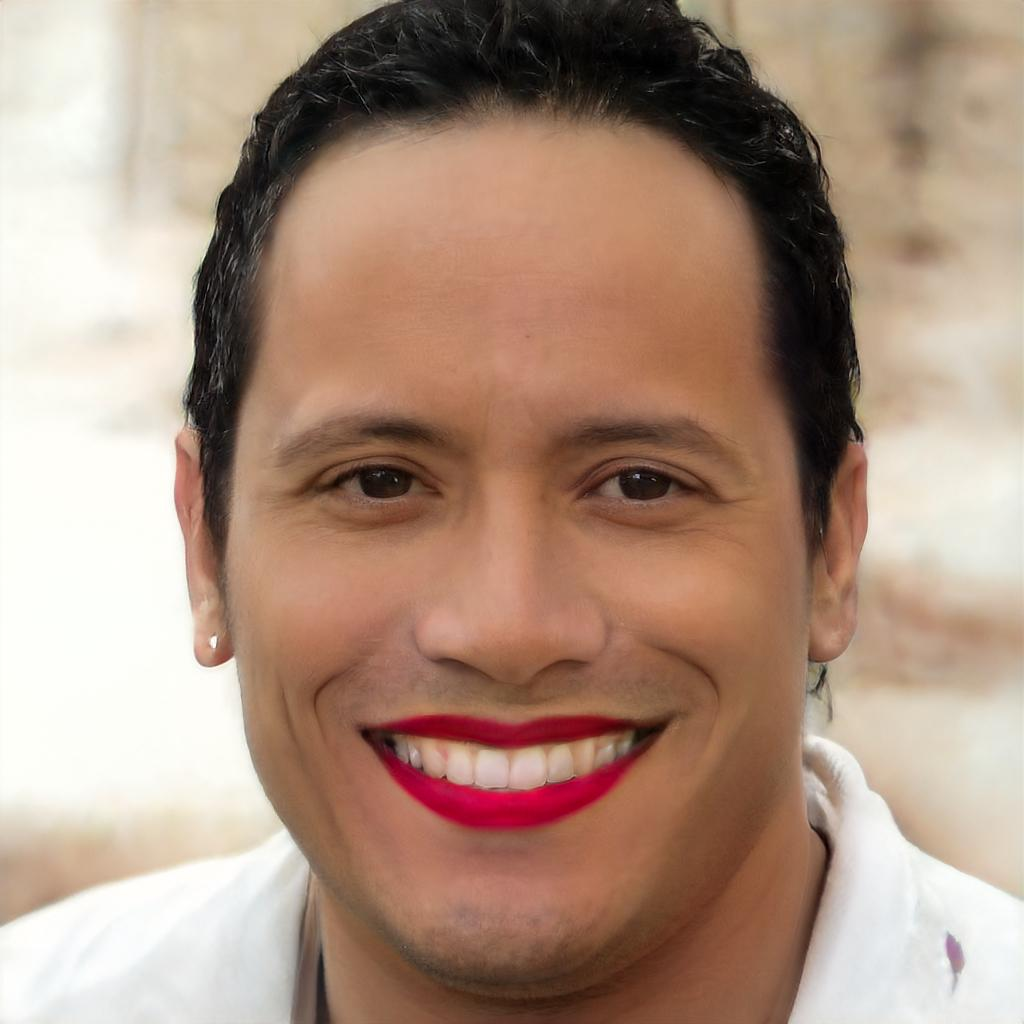
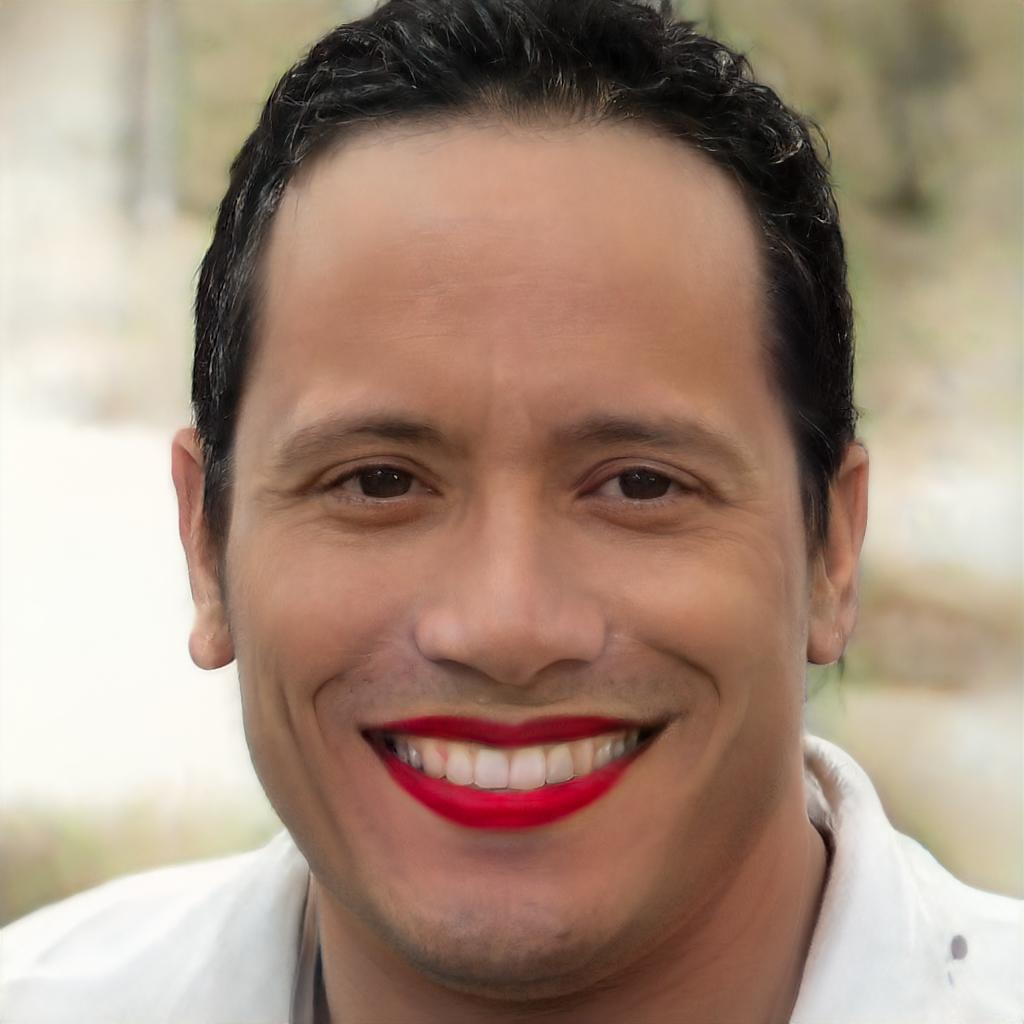
update clip and l2 only

diff --git a/adversarial_optimization.py b/adversarial_optimization.py
@@ -69,6 +69,7 @@ class Adversarial_Opt:
         self.num_aug = args.num_aug
         self.nce_loss = nce_loss.NCELoss('cuda', clip_model="ViT-B/32")
         self.source_text = args.source_text
+        # this is the makeup prompt.
         self.description = args.makeup_prompt
         self.face_models = FaceRecognitionModels()
         self.fr_model_m = self.face_models.load_mobile_face_net()
@@ -201,14 +202,14 @@ class Adversarial_Opt:
     
     def run(self):
         
-        target_embbeding_m, target_embbeding_facenet, target_embbeding_152, target_embbeding_50,target_eval = self.get_target_embeddings()
+        target_embbeding_m, target_embbeding_facenet, target_embbeding_152, target_embbeding_50,target_eval = self.get_target_embeddings() # target_embbeding_m.shape = [1,512],  target_embbeding_facenet.shape = [1,512], target_embbeding_152.shape = [1,512], target_embbeding_50.shape = [1,512], target_eval.shape = torch.Size([1, 3, 671, 525]). The target is the original image of the target identity, for example 085807.jpg. We need this 
         
         for ff, (latent, path) in enumerate(zip(self.latents, self.path)):
-            
+            # path = 'auto_input_images/man.jpg'; latent = torch.Size([1, 18, 512])
             with torch.no_grad():
-                g_ema = torch.load(self.generators[ff]).eval() #loading fine-tuned generator
+                g_ema = torch.load(self.generators[ff]).eval() #loading fine-tuned generator, this is a nn.Module object
    
-            _,latent_cl, noisss = self.process_latent(latent, self.noi[ff]) #processing latent and noise
+            _,latent_cl, noisss = self.process_latent(latent, self.noi[ff]) #processing latent and noise. latent_cl.shape = torch.Size([1, 18, 512]), noisss is a list, 
             img_org_ = self.get_image_gen(latent, noisss,g_ema) #augmenting image
             
             
@@ -223,18 +224,22 @@ class Adversarial_Opt:
                 img_gen_, _ = g_ema([latent], input_is_latent=True, noise=noisss)
                 img_gen_ = ((img_gen_+1)/2).clamp(0,1)
 
-                img_gen_aug = torch.cat([self.augment(img_gen_) for i in range(self.num_aug)], dim=0)                     
+                img_gen_aug = torch.cat([self.augment(img_gen_) for i in range(self.num_aug)], dim=0) 
+                # this is the align loss to makeup prompt.                    
                 c_loss = self.nce_loss(img_org_, self.source_text,img_gen_aug, self.description).sum()
 
-                l2_loss = ((latent_cl - latent) ** 2).sum()
+                l2_loss = ((latent_cl - latent) ** 2).sum() # this is to make sure that the latent is not too far from the original latent.
  
                 #cropping
                 img_gen = img_gen_[:,:,round(bb_src1[1])-self.margin:round(bb_src1[3])+self.margin,round(bb_src1[0])-self.margin:round(bb_src1[2])+self.margin]
 
-                adv_loss_m_sim, adv_loss_facenet_sim, adv_loss_152_sim, adv_loss_50_sim,adv_loss_m,adv_loss_facenet,adv_loss_152,adv_loss_50 = self.get_adv_loss(img_gen, source_embbeding_m_, source_embbeding_facenet_, source_embbeding_152_, source_embbeding_50_,target_embbeding_m, target_embbeding_facenet, target_embbeding_152, target_embbeding_50)
+                # the idea of adversarial loss is to make sure that the latent representation of the generated image is similar to the target image. For example an unseen, secret face image. However, this may change the identity of the generated image. That's why the l2 loss is added to make sure that the latent is not too far from the original latent.
+                # So if you have a model, you can use L2 and this loss to attack that model. The clip loss is used to make sure that the generated image is similar to the makeup prompt is the main contribution of this work.
+                # adv_loss_m_sim, adv_loss_facenet_sim, adv_loss_152_sim, adv_loss_50_sim,adv_loss_m,adv_loss_facenet,adv_loss_152,adv_loss_50 = self.get_adv_loss(img_gen, source_embbeding_m_, source_embbeding_facenet_, source_embbeding_152_, source_embbeding_50_,target_embbeding_m, target_embbeding_facenet, target_embbeding_152, target_embbeding_50)
                                             
                 
-                loss = self.calculate_loss(self.model, l2_loss, c_loss, adv_loss_m_sim, adv_loss_facenet_sim, adv_loss_152_sim, adv_loss_50_sim, adv_loss_m, adv_loss_facenet, adv_loss_152, adv_loss_50)               
+                # loss = self.calculate_loss(self.model, l2_loss, c_loss, adv_loss_m_sim, adv_loss_facenet_sim, adv_loss_152_sim, adv_loss_50_sim, adv_loss_m, adv_loss_facenet, adv_loss_152, adv_loss_50)            
+                loss =  self.lat_hyp * l2_loss   + self.c_hyp*c_loss
                 loss.backward()
                 
                 latent.grad[0][0:8] = torch.zeros(8,512) 

diff --git a/criteria/nce_loss.py b/criteria/nce_loss.py
@@ -75,29 +75,31 @@ class NCELoss(torch.nn.Module):
         return text_direction
 
     def infonce_loss(self, src_img: torch.Tensor, source_class: str, target_img: torch.Tensor, target_class: str) -> torch.Tensor:
-        
-        source_text = self.get_text_features(source_class)
+        # the text features are extracted from CLIP text model. 
+        source_text = self.get_text_features(source_class) # shape [79, 512], source_class = "face"
 
-        target_text = self.get_text_features(target_class).mean(axis=0, keepdim=True)
+        target_text = self.get_text_features(target_class).mean(axis=0, keepdim=True) # shape [1, 512], target_class = "red lipstick with pink eyeshadows"
 
-        src_img    = self.get_image_features(src_img)
-        target_img = self.get_image_features(target_img)
-        target_text = target_text.repeat(target_img.shape[0],1)
-        query = (target_img - src_img)
-        query /= query.clone().norm(dim=-1, keepdim=True)
+        # the image features are extracted from CLIP image model.
+        src_img    = self.get_image_features(src_img) # shape [1,512]
+        target_img = self.get_image_features(target_img) # shape [1,512]
+        target_text = target_text.repeat(target_img.shape[0],1) # shape [1,512], this is probably applying for all images 
+        query = (target_img - src_img) # 1,512
+        query /= query.clone().norm(dim=-1, keepdim=True) # get the distance between target img and source img and then normalize 
 
-        pos1_direction = self.compute_text_direction(source_class, target_class)
-        pos1_direction = pos1_direction.repeat(target_img.shape[0],1)
+        pos1_direction = self.compute_text_direction(source_class, target_class) # 1,512
+        pos1_direction = pos1_direction.repeat(target_img.shape[0],1) # this is the same, but for text 
 
-        pos2_direction = (target_text - src_img)
-        pos2_direction /= pos2_direction.clone().norm(dim=-1, keepdim=True)
+        pos2_direction = (target_text - src_img) # 1,512
+        pos2_direction /= pos2_direction.clone().norm(dim=-1, keepdim=True) # this is between target text and source img
        
-        neg_direction = (source_text - src_img[:1])
-        neg_direction /= neg_direction.clone().norm(dim=-1, keepdim=True)
+        neg_direction = (source_text - src_img[:1]) # 79,512
+        neg_direction /= neg_direction.clone().norm(dim=-1, keepdim=True) # this is between source text and source img
         # target img - source img -> query
         # target text - source text-> pos1
         # target text - source img -> pos2
-        # souce text - source img -> neg
+        # source text - source img -> neg
+        # then push everything into InfoNCE. To understand this, think under abstract perspective. source text - source img will remain some abstract represent a "face" of the source (the original input we pass into the model). target img - source img will represent the difference the current changes we made to the source image. target text - source text will represent the difference between the current changes we made to the source image and the target text. In other words, we want to make the different between the change and the original to be similar to the difference between normal face and makeup face.
         return self.InfoNCE(query.repeat(2,1), torch.cat([pos1_direction,pos2_direction], 0), neg_direction)
 
 
@@ -105,3 +107,4 @@ class NCELoss(torch.nn.Module):
         clip_loss = self.infonce_loss(src_img, source_class, target_img, target_class)
 
         return clip_loss
+        

diff --git a/criteria/infonce.py b/criteria/infonce.py
@@ -87,11 +87,11 @@ def info_nce(query, positive_key, negative_keys=None, temperature=0.1, reduction
         # Explicit negative keys
 
         # Cosine between positive pairs
-        positive_logit = torch.sum(query * positive_key, dim=1, keepdim=True)
+        positive_logit = torch.sum(query * positive_key, dim=1, keepdim=True) # query * positive_key => shape [2,512], sum => shape [2,1]
 
         if negative_mode == 'unpaired':
             # Cosine between all query-negative combinations
-            negative_logits = query @ transpose(negative_keys)
+            negative_logits = query @ transpose(negative_keys) # query => shape [2,512], negative_keys => shape [79,512], transpose => shape [512,79], query @ transpose(negative_keys) => shape [2,79]
 
         elif negative_mode == 'paired':
             query = query.unsqueeze(1)
@@ -99,8 +99,8 @@ def info_nce(query, positive_key, negative_keys=None, temperature=0.1, reduction
             negative_logits = negative_logits.squeeze(1)
 
         # First index in last dimension are the positive samples
-        logits = torch.cat([positive_logit, negative_logits], dim=1)
-        labels = torch.zeros(len(logits), dtype=torch.long, device=query.device)
+        logits = torch.cat([positive_logit, negative_logits], dim=1) # shape [2,80]
+        labels = torch.zeros(len(logits), dtype=torch.long, device=query.device) # shape [2] = [0,0]
     else:
         # Negative keys are implicitly off-diagonal positive keys.
 
@@ -110,7 +110,7 @@ def info_nce(query, positive_key, negative_keys=None, temperature=0.1, reduction
         # Positive keys are the entries on the diagonal
         labels = torch.arange(len(query), device=query.device)
 
-    return F.cross_entropy(logits / temperature, labels, reduction=reduction)
+    return F.cross_entropy(logits / temperature, labels, reduction=reduction) # all ground truth labels are 0, so the loss will guide the model to make the positive pairs (at index 0) to have higher cosine similarity than negative pairs.
     # return 1.0 - torch.nn.CosineSimilarity()(logits / temperature, labels)
 
 def transpose(x):

diff --git a/main.py b/main.py
@@ -21,6 +21,7 @@ def parse_args():
     # arguments for the stage-2 (adversarial optimization)
     parser.add_argument('--num_aug', type=int, default=1)
     parser.add_argument('--source_text', type=str, default='face')
+    # make up prompt start here. 
     parser.add_argument('--makeup_prompt', type=str, default='red lipstick')
     parser.add_argument('--steps', type=int, default=50)
     parser.add_argument('--target_choice', type=str, default='2', help='Choice of target identity, as in AMT-GAN. We use 4 target identities provided by AMT-GAN')
